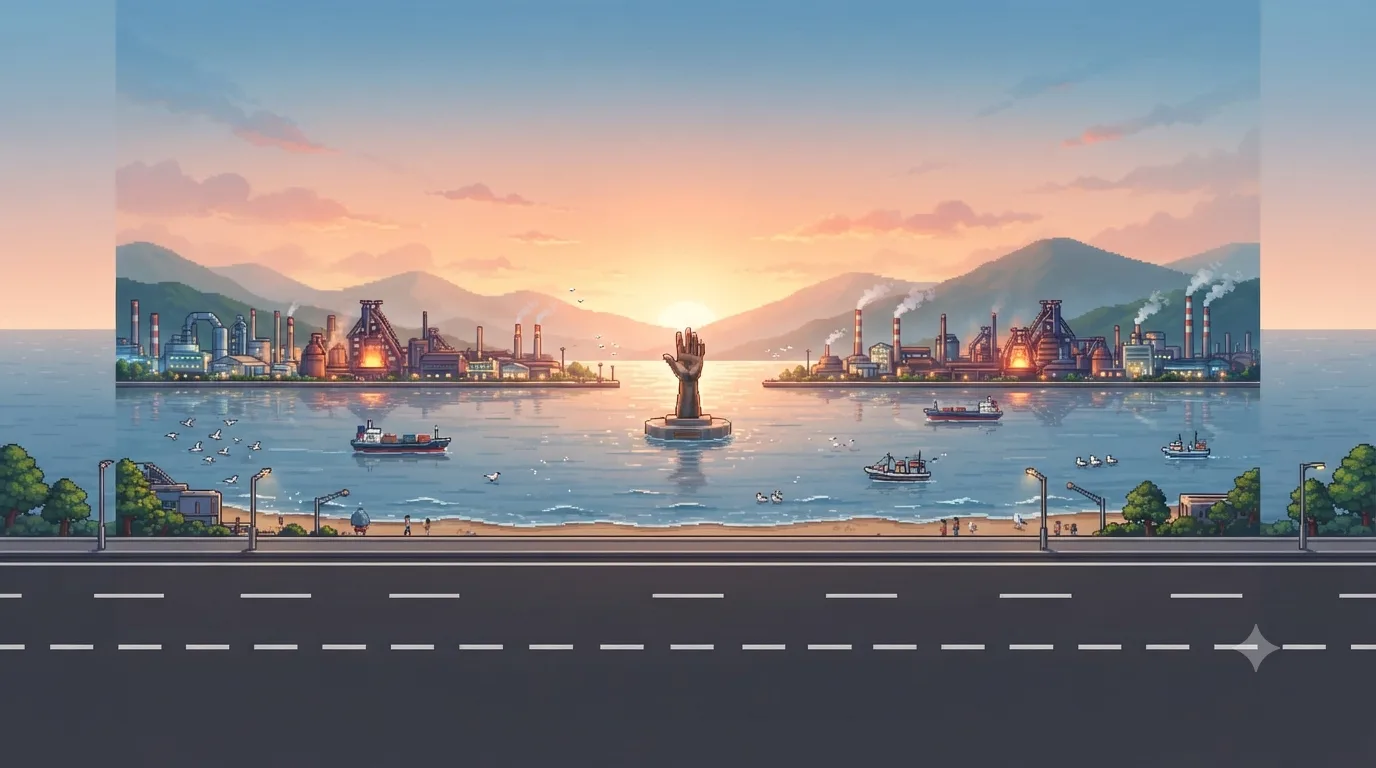
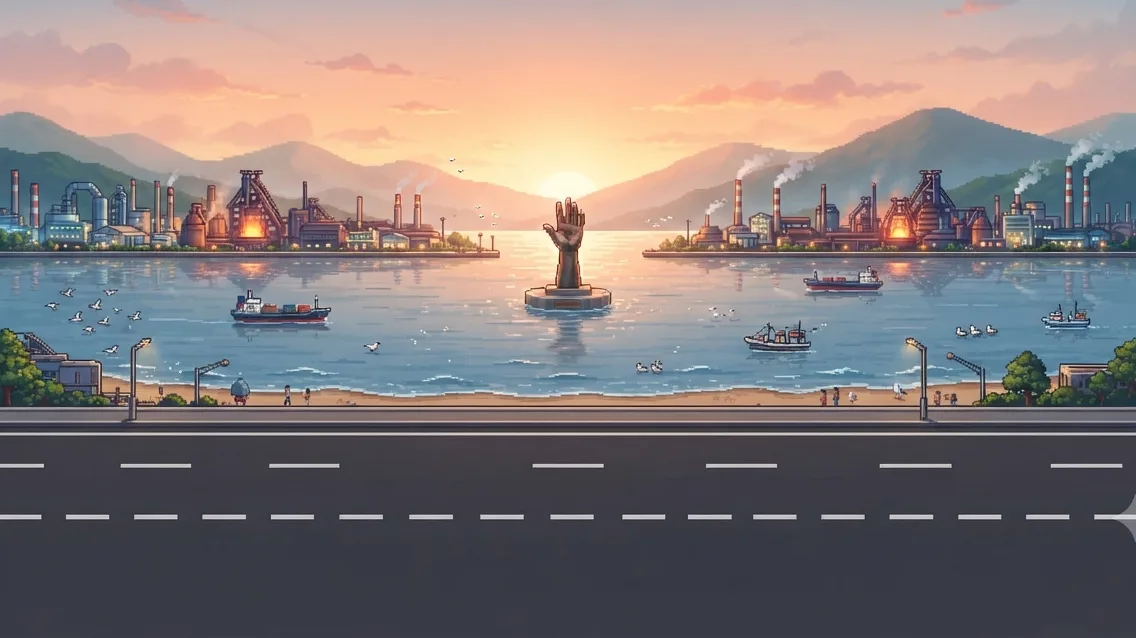
부산·포항·여수 배경 양쪽 크롭 — 프레임 밴드 제거로 타일링 개선 (v11.18)
사용자 지적: 세 배경의 양쪽에 옅은/어두운 세로 프레임 밴드가 있어 스크롤 시 이음새가 튐.
밴드 위치 실측(부산177/1203·포항116/1259·여수106/1263) → 밴드 바깥까지 크롭.
- 폭만 자르면 게임(420폭 고정)이 늘려 그려 가로 왜곡 → 비율(420:236) 유지 위해 상단(하늘)도 함께 크롭.
  도로는 하단 고정이라 복동이 접지 유지.
- 부산 1016x571·포항 1136x638·여수 1146x644. 헤드리스 렌더 검증(밴드 제거·왜곡 없음·복동이 접지·타일 이음새서 바다/하늘/도로 연속).
- 파일명 동일 → 자동 적용(코드 변경 없음).

Claude-Session: https://claude.ai/code/session_01SNyTKBZFgXA7UxnXjjzqdr

diff --git a/index.html b/index.html
@@ -6,7 +6,7 @@
 <meta name="mobile-web-app-capable" content="yes">
 <meta name="apple-mobile-web-app-capable" content="yes">
 <meta name="apple-mobile-web-app-status-bar-style" content="default">
-<title>임복동 세계일주 v11.17</title>
+<title>임복동 세계일주 v11.18</title>
 <!-- 갈무리(Galmuri) 픽셀폰트를 최우선·병렬 로드 — @import 직렬 로딩으로 인한 폰트 폴백(상단/하단 글씨체 불일치) 방지 -->
 <link rel="preconnect" href="https://cdn.jsdelivr.net" crossorigin>
 <link rel="stylesheet" href="https://cdn.jsdelivr.net/gh/quiple/galmuri/dist/galmuri.css">